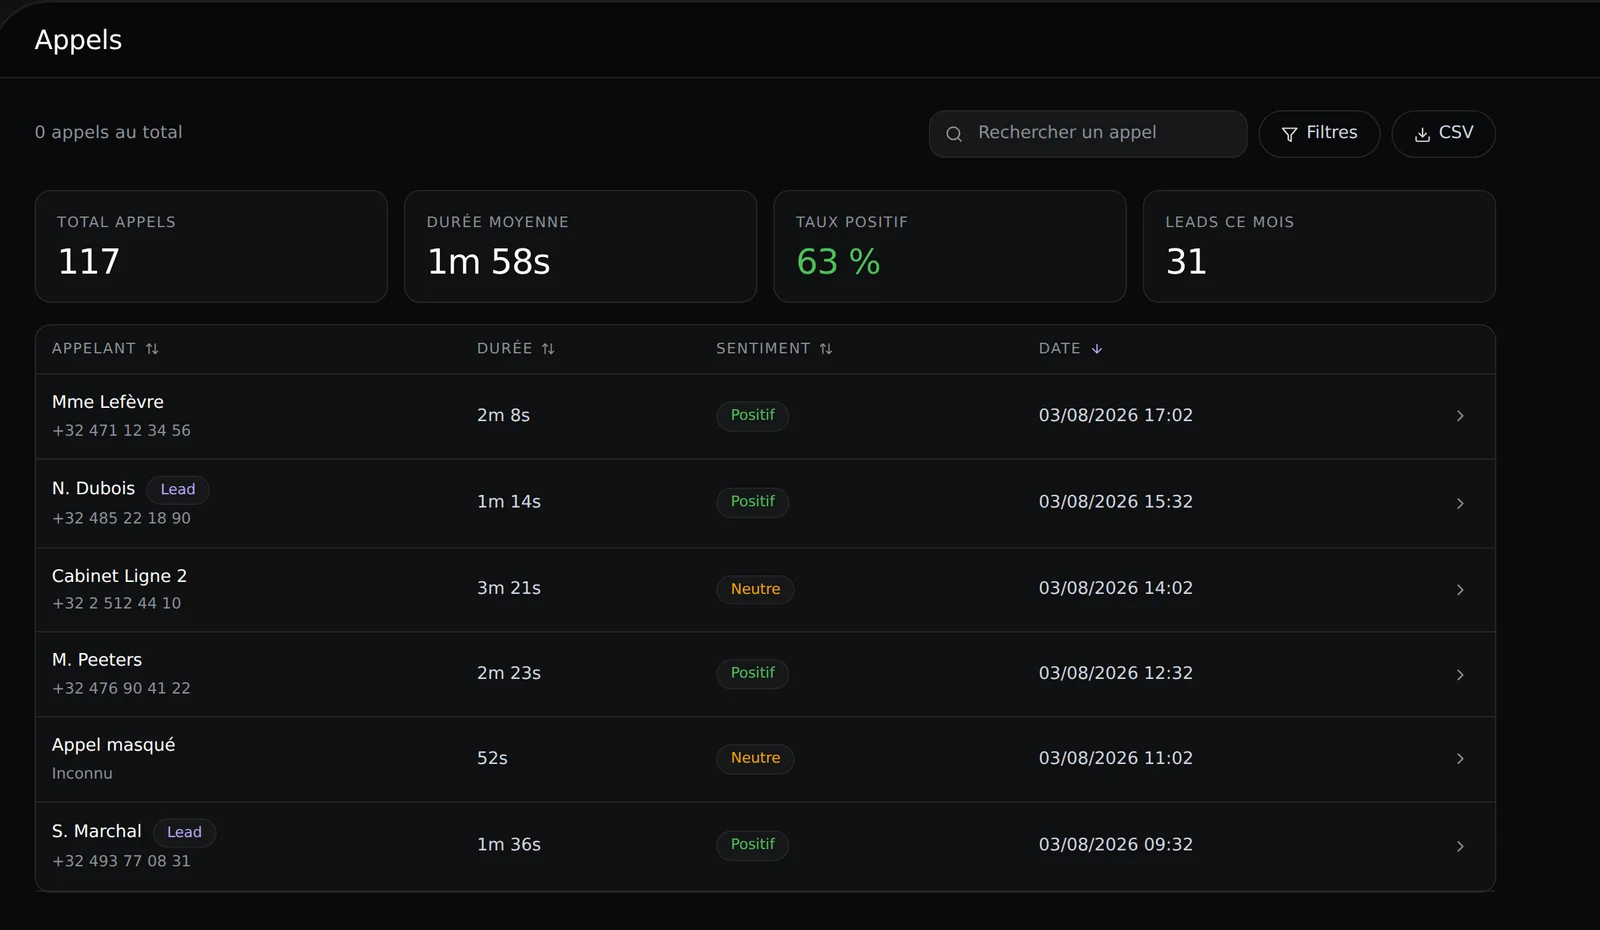
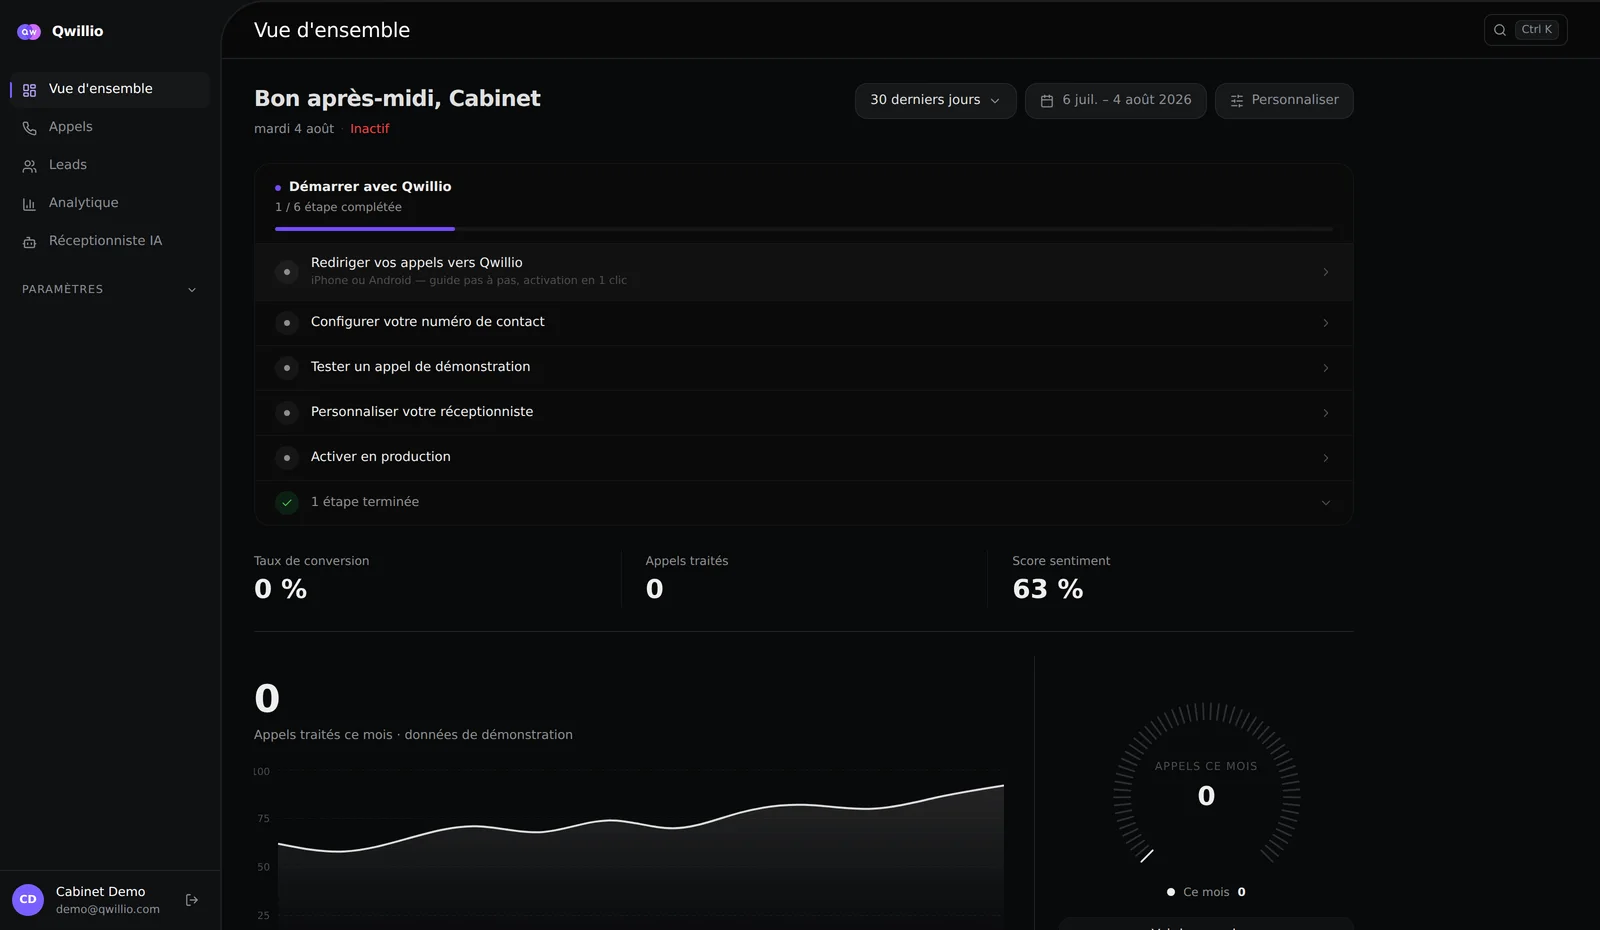
feat(design-v2): coups de coeur 21st integres (phase 6)
- PixelBlushBackdrop (gradient anime blur, teintes charte) derriere le hero
- Hero style folio/mosa-ai: titre + CTA puis grande capture reelle du
  dashboard (Vue d'ensemble, perspective aplatie au scroll); HeroPhone3D
  dans sa section L'app dans votre poche
- NavV2: detachement en pilule flottante au scroll (hysteresis, spring)
- FeatureCards (illustrations produit en haut), IntegrationsOrbit
  (noeuds relies au logo, traces DrawSVG au scroll), CircularReceptionists
  (arc des 10 avatars, fleches/drag/clavier), ImpactStats (4 faits Counter)
- Dashboard: page Receptionniste refaite frameless (KpiSplit, sections
  depliees pleine largeur, chat en panneau lateral declenchable)
- ScreenParade retire de Home (capture Appels en triple emploi)
- Nouvelle capture hero-dashboard.webp (Vue d'ensemble reelle)

diff --git a/frontend/src/pages/v2/Home.tsx b/frontend/src/pages/v2/Home.tsx
@@ -15,7 +15,6 @@ import RevealV2 from '../../components/v2/RevealV2';
 import CardV2 from '../../components/v2/CardV2';
 import HeroPhone3D from '../../components/ui/HeroPhone3D';
 import CircularReceptionists from '../../components/v2/CircularReceptionists';
-import ScreenParade from '../../components/v2/ScreenParade';
 import FeatureCards from '../../components/v2/FeatureCards';
 import IntegrationsOrbit from '../../components/v2/IntegrationsOrbit';
 import ImpactStats from '../../components/v2/ImpactStats';
@@ -425,23 +424,15 @@ export default function Home() {
             </div>
           </RevealV2>
         </Container>
-
-        {/* Les vrais écrans du produit, posés en perspective */}
-        <Container className="mt-20">
-          <RevealV2>
-            <p className="q2-eyebrow text-q2-graphite mb-8">
-              {isFr ? 'Et voici son poste de travail' : 'And this is her workstation'}
-            </p>
-          </RevealV2>
-          <ScreenParade isFr={isFr} />
-        </Container>
       </Section>
 
       {/* ── QWILLIO EN CHIFFRES, bande taupe: quatre faits, rien d'autre ── */}
       <ImpactStats isFr={isFr} />
 
       {/* ── L'APP DANS VOTRE POCHE, le téléphone quitte le hero ── */}
-      <Section aria-labelledby="pocket-heading">
+      {/* overflow-hidden: le halo ambiant de HeroPhone3D fait 420px de large et
+          dépasserait la colonne sur un écran de 390px */}
+      <Section aria-labelledby="pocket-heading" className="relative overflow-hidden">
         <Container className="grid lg:grid-cols-[1fr_1fr] gap-14 lg:gap-20 items-center [&>*]:min-w-0">
           <RevealV2>
             <Eyebrow tone="indigo" className="mb-4">

diff --git a/frontend/src/components/v2/CircularReceptionists.tsx b/frontend/src/components/v2/CircularReceptionists.tsx
@@ -135,9 +135,12 @@ export default function CircularReceptionists({ isFr }: { isFr: boolean }) {
          plus éloigné encore visible atterrit à `span` du centre et `depth`
          plus haut. Le rayon et le pas s'en déduisent, donc la courbe reste
          juste de 390px à 1200px sans point de rupture. */
-      const span = w * 0.46;
-      const depth = h * 0.42;
-      const edgeAngle = 2 * Math.atan(depth / span);
+      /* Empan plafonné: sans lui, un écran large étirerait l'arc en rangée
+         plate et la courbe ne se lirait plus. Angle de bord plafonné à 72deg:
+         au-delà l'arc se referme sur lui-même et les visages se rattrapent. */
+      const span = Math.min(w * 0.46, 300);
+      const depth = h * 0.58;
+      const edgeAngle = Math.min(2 * Math.atan(depth / span), (72 * Math.PI) / 180);
       const radius = span / Math.sin(edgeAngle);
       const step = edgeAngle / EDGE;
       /* Ligne de base: le centre de l'actif, posé au bas de la scène */
@@ -285,7 +288,7 @@ export default function CircularReceptionists({ isFr }: { isFr: boolean }) {
         onPointerMove={onPointerMove}
         onPointerUp={endDrag}
         onPointerCancel={endDrag}
-        className="relative h-[240px] sm:h-[300px] overflow-hidden touch-pan-y select-none"
+        className="relative h-[250px] sm:h-[340px] overflow-hidden touch-pan-y select-none"
       >
         {PRESETS.map((p, i) => (
           <button

diff --git a/frontend/src/components/v2/FeatureCards.tsx b/frontend/src/components/v2/FeatureCards.tsx
@@ -60,9 +60,11 @@ export default function FeatureCards({ isFr }: { isFr: boolean }) {
         <RevealV2 key={f.src} index={i} className="h-full">
           {/* flex-col, pas un bloc simple: sans contexte de formatage la marge
               négative du liseré remonterait la carte au lieu de la déborder */}
-          <article className="q2-card-hover flex h-full flex-col bg-q2-band rounded-[24px] px-6 pb-6 pt-0">
+          {/* Carte canvas + hairline: la section qui l'accueille est déjà une
+              bande taupe, une plate sur une plate ne se verrait pas */}
+          <article className="q2-card-hover flex h-full flex-col bg-q2-canvas border border-q2-plate rounded-[24px] px-6 pb-6 pt-0">
             {/* Le liseré remonte de 40px: la capture déborde du haut de la carte */}
-            <div className="-mt-10 mb-6 rounded-[18px] border border-q2-plate bg-q2-canvas p-1.5 shadow-[var(--q2-shadow-whisper)]">
+            <div className="-mt-10 mb-6 rounded-[18px] border border-q2-plate bg-q2-band p-1.5 shadow-[var(--q2-shadow-whisper)]">
               <div className="rounded-[13px] overflow-hidden bg-q2-carbon">
                 <img
                   src={f.src}
